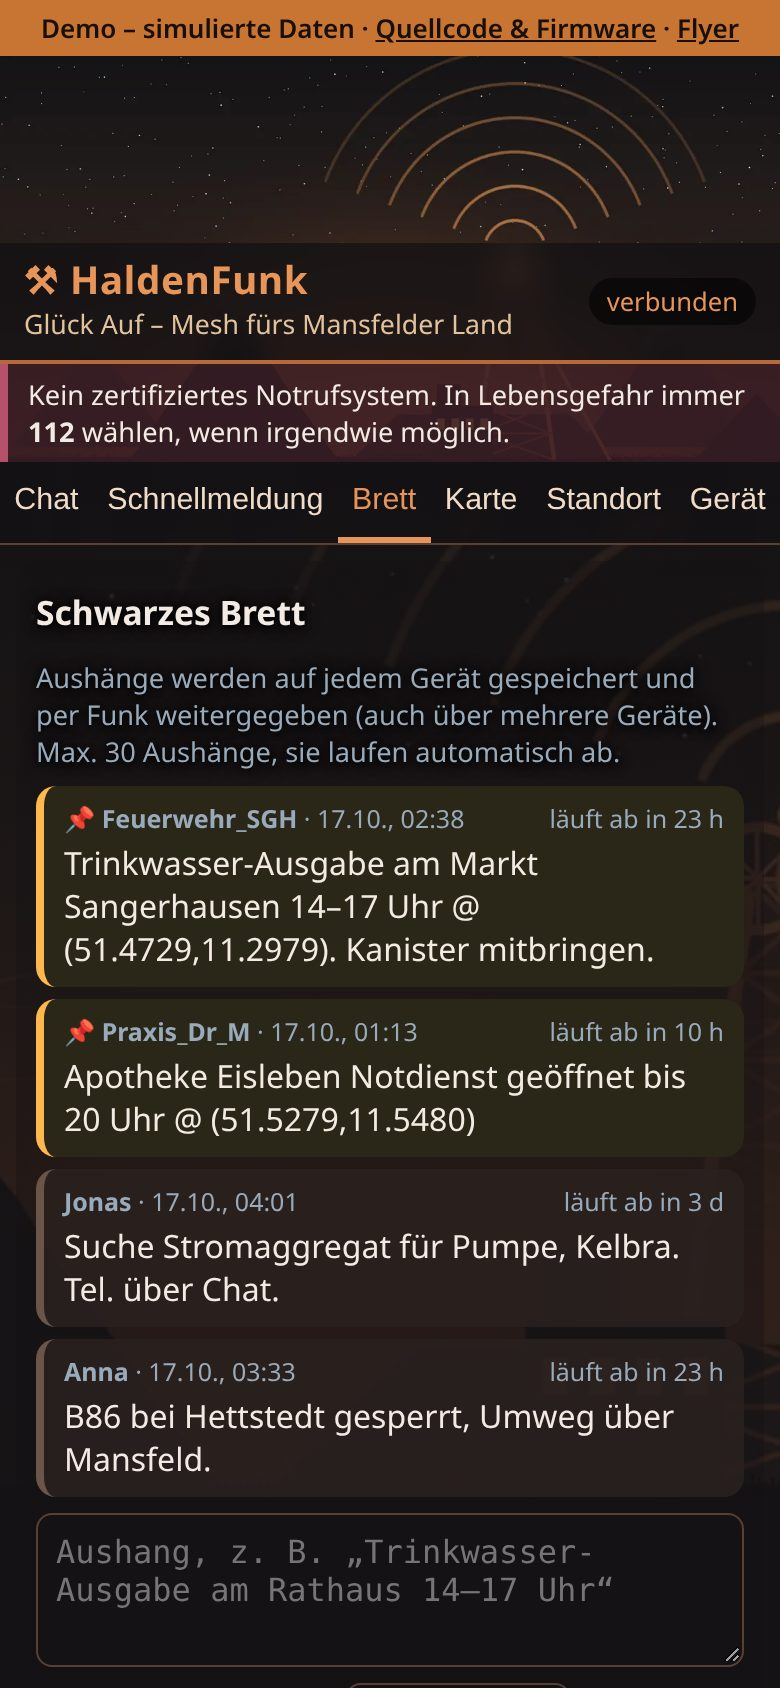
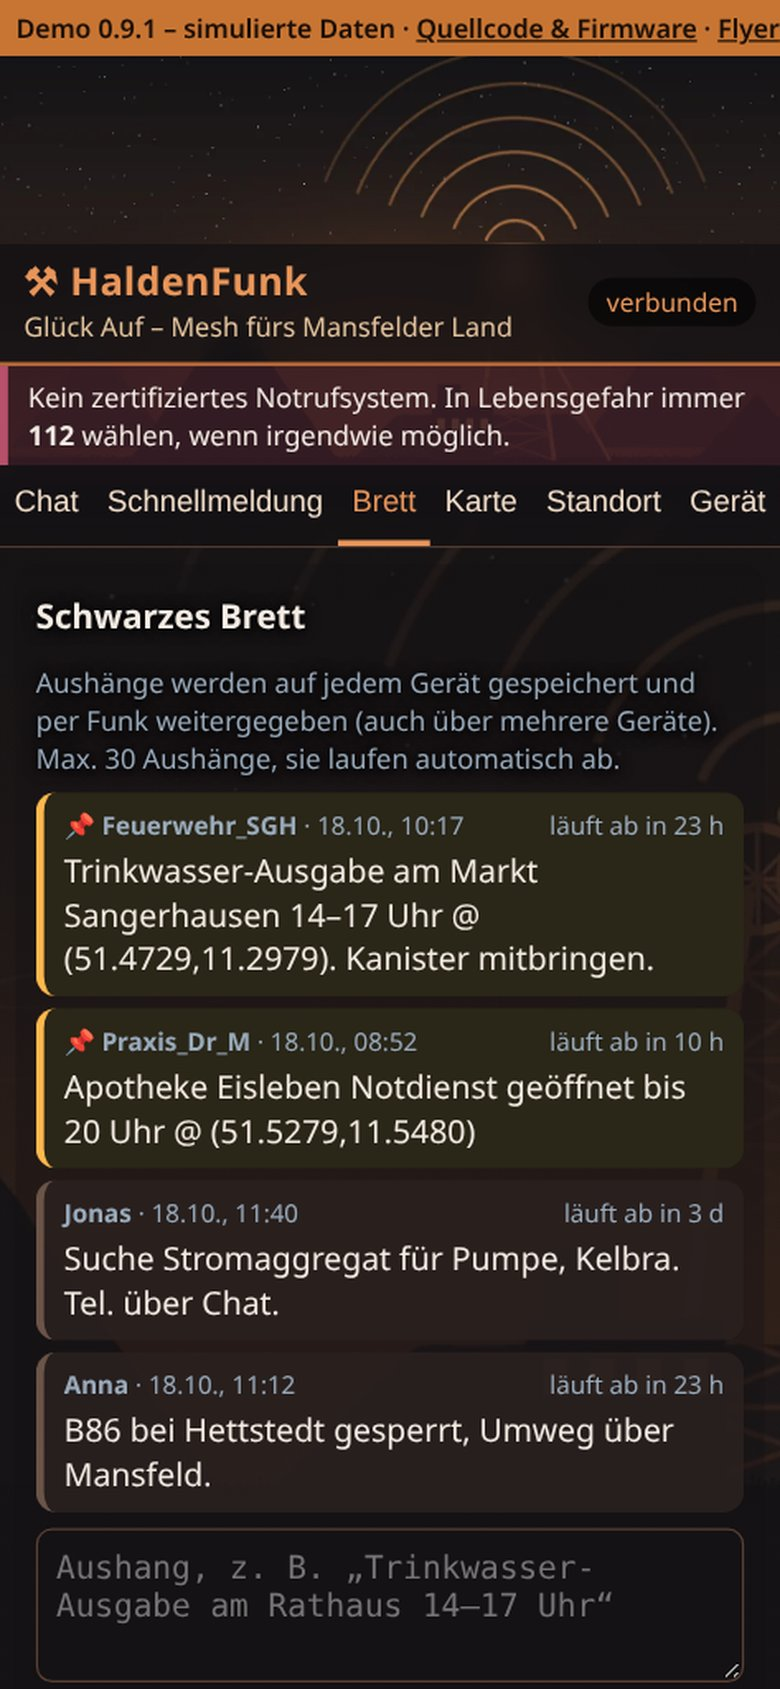
Version 0.9.1: README/CHANGELOG, Projektfamilie 0.9.1, README-Bilder neu, Kern DisAHRsterRadio 0.9.1 (Release nur Heltec V2), Oberflaeche unveraendert

diff --git a/web/static/index.html b/web/static/index.html
@@ -65,7 +65,7 @@ section h2,section p,.row label{text-shadow:0 1px 3px #000,0 0 8px #000}
 <section id="info"><h2>Gerät</h2><table id="it"></table>
 <h2>Funkprofil</h2><p class="muted">⚠ Alle Geräte im Netz müssen <b>dasselbe Funkprofil</b> nutzen, sonst hören sie sich nicht. Alle Profile liegen im Teilband 869,4–869,65 MHz (max. 500 mW ERP, 10 % Sendezeit pro Stunde – die Firmware hält Pakete zurück, wenn das Budget aufgebraucht ist). Änderung startet das Gerät neu.</p>
 <form id="pf" onsubmit="return false" style="display:block"><select id="psel" class="b b2" style="width:100%;max-width:100%;margin-bottom:8px;font-size:15px"></select><button class="b" id="pset" type="button" style="width:100%">Übernehmen &amp; neu starten</button></form><p id="pres" class="muted"></p>
-<p class="muted">Basiert auf <a href="https://github.com/sudomesh/disaster-radio" style="color:var(--sage)">sudomesh/disaster-radio</a> (GPLv3/AGPLv3). Regionalvariante von <a href="https://github.com/Pietwars/DisAHRsterRadio" style="color:var(--sage)">DisAHRsterRadio</a>.</p><p class="muted" id="uiver">Weboberfläche HaldenFunk 0.1.1-alpha</p></section>
+<p class="muted">Basiert auf <a href="https://github.com/sudomesh/disaster-radio" style="color:var(--sage)">sudomesh/disaster-radio</a> (GPLv3/AGPLv3). Regionalvariante von <a href="https://github.com/Pietwars/DisAHRsterRadio" style="color:var(--sage)">DisAHRsterRadio</a>.</p><p class="muted" id="uiver">Weboberfläche HaldenFunk 0.9.1</p></section>
 </main>
 <script>
 const PLACES=[['Allstedt',51.4019,11.3867],['Hettstedt',51.6496,11.5115],['Kelbra (Kyffhäuser)',51.4353,11.0390],['Kyffhäuser-Denkmal',51.4128,11.1078],['Lutherstadt Eisleben',51.5279,11.5480],['Mansfeld',51.5960,11.4540],['Roßla',51.4640,11.0750],['Sangerhausen',51.4729,11.2979],['Sangerhausen – Hohe Linde (Halde)',51.4880,11.3290],['Stolberg (Harzrand)',51.5745,10.9563],['Wallhausen',51.4580,11.2050],['Wippra (Harzrand)',51.5710,11.2770]];
@@ -105,7 +105,7 @@ $('#pl').onclick=e=>{const b=e.target.closest('button');if(!b)return;const p=PLA
 $('#gps').onclick=()=>{if(!navigator.geolocation)return $('#gpsres').textContent='Kein GPS im Browser verfügbar.';$('#gpsres').textContent='Suche Position …';
  navigator.geolocation.getCurrentPosition(p=>{myPos=p.coords.latitude.toFixed(5)+','+p.coords.longitude.toFixed(5)+' (±'+Math.round(p.coords.accuracy)+' m)';localStorage.setItem('dar-pos',myPos);setMe(p.coords.latitude,p.coords.longitude);$('#gpsres').textContent='Position: '+myPos;who()},
  e=>{$('#gpsres').textContent='GPS nicht möglich ('+e.message+'). Bitte Ort aus der Liste wählen.'},{enableHighAccuracy:true,timeout:15000})};
-async function info(){let d;try{d=DEMO?{name:'HaldenFunk',version:'0.1.1-alpha',board:'LILYGO T3-S3 SX1262',node:'a1b2c3d4',ssid:'HaldenFunk-B2C3D4',lora:true,preset:0,presetId:'eu-narrow',presetName:'EU Narrow (Standard)',freq:869.618,bw:62.5,sf:8,cr:'4/8',airtimeMs:12840,airtimeBudgetMs:360000,airtimePct:0.36,dutyLimitPct:10,txDeferred:0,txPower:14,routes:2,clients:3,sd:false,uptime:4711,heap:151552,minHeap:118784,maxBlock:65524,heapWarn:40960}:await (await fetch('/api/info')).json()}catch(e){$('#it').innerHTML='<tr><td>Keine Gerätedaten</td></tr>';return}
+async function info(){let d;try{d=DEMO?{name:'HaldenFunk',version:'0.9.1',board:'LILYGO T3-S3 SX1262',node:'a1b2c3d4',ssid:'HaldenFunk-B2C3D4',lora:true,preset:0,presetId:'eu-narrow',presetName:'EU Narrow (Standard)',freq:869.618,bw:62.5,sf:8,cr:'4/8',airtimeMs:12840,airtimeBudgetMs:360000,airtimePct:0.36,dutyLimitPct:10,txDeferred:0,txPower:14,routes:2,clients:3,sd:false,uptime:4711,heap:151552,minHeap:118784,maxBlock:65524,heapWarn:40960}:await (await fetch('/api/info')).json()}catch(e){$('#it').innerHTML='<tr><td>Keine Gerätedaten</td></tr>';return}
  const L={board:'Board',version:'Firmware',node:'Knotenadresse',ssid:'WLAN',lora:'LoRa aktiv',presetName:'Funkprofil',freq:'Frequenz (MHz)',bw:'Bandbreite (kHz)',sf:'Spreizfaktor',cr:'Coderate',airtimeMs:'Sendezeit letzte Stunde',txDeferred:'Wegen Sendezeit zurückgehalten',txPower:'Sendeleistung (dBm)',routes:'Routen',clients:'Verbundene Clients',sd:'SD-Karte',uptime:'Laufzeit (s)',heap:'Freier Speicher',minHeap:'Minimum seit Start',maxBlock:'Größter freier Block'};
  const W=d.heapWarn||40960,KB=v=>Math.round(v/1024)+' KB';
  $('#it').innerHTML=Object.keys(L).filter(k=>d[k]!==undefined).map(k=>{const h=/^(heap|minHeap|maxBlock)$/.test(k),low=(k=='heap'||k=='minHeap')&&d[k]<W;return '<tr><td>'+L[k]+'</td><td'+(low?' class="heaplow"':'')+'>'+esc(h?KB(d[k])+(low?' ⚠ unter '+KB(W):''):(k=='airtimeMs'?(d[k]/1000).toFixed(1)+' s von '+Math.round((d.airtimeBudgetMs||360000)/1000)+' s ('+(d.airtimePct||0).toFixed(1)+' % / max. '+(d.dutyLimitPct||10)+' %)':String(d[k]===true?'ja':d[k]===false?'nein':d[k])))+'</td></tr>'}).join('')}

diff --git a/tools/release_notes.py b/tools/release_notes.py
@@ -8,7 +8,7 @@ log = (ROOT / 'CHANGELOG.md').read_text(encoding='utf-8')
 m = re.search(r'^## [^\n]*?v?' + re.escape(version) + r'\b[^\n]*\n(.*?)(?=^## |\Z)', log, re.S | re.M)
 body = m.group(1).strip() if m else '(Kein eigener CHANGELOG-Abschnitt für diese Version gefunden.)'
 rows = '\n'.join(f'| {n} | `{prefix}-{version}-{b}.zip` |' for b, n in (x.split('=', 1) for x in boards))
-print(f"""> ⚠ **Kein zertifiziertes Notrufsystem.** In Lebensgefahr immer **112** wählen. Vorabversion, auf echter Hardware **nicht abgenommen**.
+print(f"""> ⚠ **Kein zertifiziertes Notrufsystem.** In Lebensgefahr immer **112** wählen. {'Vorabversion, ' if '-' in version else ''}Diese Firmware ist auf echter Hardware **nicht abgenommen**.
 
 ## Änderungen
 {body}

diff --git a/firmware/config.h b/firmware/config.h
@@ -6,7 +6,7 @@
 #include "secrets.h"
 #endif
 
-#define DAR_VERSION "0.1.1-alpha"
+#define DAR_VERSION "0.9.1"
 #define CLOCK_SPEED 240
 // Unter dieser Grenze freien Heaps warnen Weboberfläche (rot) und serielles [HEAP]-Protokoll
 #ifndef HEAP_WARN_BYTES

diff --git a/README.md b/README.md
@@ -9,7 +9,7 @@
 
 ![HaldenFunk – Halden, Förderturm und Funkwellen](docs/images/haldenfunk-header.jpg)
 
-**Version 0.1.1-alpha** (Vorabversion) · [Release v0.1.1-alpha mit Firmware](https://github.com/Pietwars/HaldenFunk/releases/tag/v0.1.1-alpha) · disaster-radio/LoRaLayer2 + RadioLib 7 · 868 MHz · **Flyer (A5):** [Druck-PDF mit QR-Codes](docs/flyer/HaldenFunk-Flyer.pdf) · [Digital-PDF mit klickbaren Links](docs/flyer/HaldenFunk-Flyer-digital.pdf) · [Änderungen](CHANGELOG.md)
+**Version 0.9.1** · [Release v0.9.1 mit Firmware für Heltec V2](https://github.com/Pietwars/HaldenFunk/releases/tag/v0.9.1) · disaster-radio/LoRaLayer2 + RadioLib 7 · 868 MHz · **Flyer (A5):** [Druck-PDF mit QR-Codes](docs/flyer/HaldenFunk-Flyer.pdf) · [Digital-PDF mit klickbaren Links](docs/flyer/HaldenFunk-Flyer-digital.pdf) · [Änderungen](CHANGELOG.md)
 
 **Offline-Chat über LoRa-Mesh für Sangerhausen, das Mansfelder Land, die Goldene Aue und den Harzrand.** Ein Gerät spannt ein eigenes WLAN auf, man verbindet sich mit dem Handy und schreibt im Browser. Die Nachrichten laufen per LoRa von Gerät zu Gerät weiter – ganz ohne Internet, Strom aus der Steckdose oder Mobilfunk. Ideale Standorte für Knoten: Halden, Fördertürme, Kirchtürme, Dächer am Harzrand.
 
@@ -22,17 +22,17 @@ HaldenFunk ist die **Regionalvariante von [Pietwars/DisAHRsterRadio](https://git
 
 | Repository | Inhalt | Funk | Version | Demo · Download · Flyer |
 |---|---|---|---|---|
-| [Pietwars/DisasterMesh](https://github.com/Pietwars/DisasterMesh) | Original-Repo: MeshCore 1.18 mit der großen Weboberfläche MeshAhrtal, Karten, Werkzeuge, Doku (Ahrtal) | MeshCore | 0.9.0-alpha | [Live-Demo](https://pietwars.github.io/DisasterMesh/demo/) · [Release v0.9.0-alpha](https://github.com/Pietwars/DisasterMesh/releases/tag/v0.9.0-alpha) · Flyer [Druck](https://pietwars.github.io/DisasterMesh/flyer/DisasterMesh-Flyer.pdf) / [digital](https://pietwars.github.io/DisasterMesh/flyer/DisasterMesh-Flyer-digital.pdf) |
-| [Pietwars/DisAHRsterRadio-MeshCore](https://github.com/Pietwars/DisAHRsterRadio-MeshCore) | MeshCore 1.18 mit kompakter MeshAhrtal-Oberfläche per WLAN plus Bluetooth für die MeshCore-App, 105 Geräte (Ahrtal) | MeshCore | 0.9.0-alpha | [Live-Demo](https://pietwars.github.io/DisAHRsterRadio-MeshCore/) · [Release v0.9.0-alpha](https://github.com/Pietwars/DisAHRsterRadio-MeshCore/releases/tag/v0.9.0-alpha) · Flyer [Druck](https://pietwars.github.io/DisAHRsterRadio-MeshCore/flyer/DisAHRsterRadio-MeshCore-Flyer.pdf) / [digital](https://pietwars.github.io/DisAHRsterRadio-MeshCore/flyer/DisAHRsterRadio-MeshCore-Flyer-digital.pdf) |
-| [Pietwars/DisAHRsterRadio](https://github.com/Pietwars/DisAHRsterRadio) | Ohne MeshCore: modernisiertes disaster-radio (LoRaLayer2, RadioLib) mit kompakter MeshAhrtal-Oberfläche (Ahrtal) | LoRaLayer2 | 0.1.1-alpha | [Live-Demo](https://pietwars.github.io/DisAHRsterRadio/) · [Release v0.1.1-alpha](https://github.com/Pietwars/DisAHRsterRadio/releases/tag/v0.1.1-alpha) · Flyer [Druck](https://pietwars.github.io/DisAHRsterRadio/flyer/DisAHRsterRadio-Flyer.pdf) / [digital](https://pietwars.github.io/DisAHRsterRadio/flyer/DisAHRsterRadio-Flyer-digital.pdf) |
-| [Pietwars/HaldenFunk](https://github.com/Pietwars/HaldenFunk) | Regionalvariante von DisAHRsterRadio für Sangerhausen / Mansfelder Land, ohne MeshCore | LoRaLayer2 | 0.1.1-alpha | [Live-Demo](https://pietwars.github.io/HaldenFunk/) · [Release v0.1.1-alpha](https://github.com/Pietwars/HaldenFunk/releases/tag/v0.1.1-alpha) · Flyer [Druck](https://pietwars.github.io/HaldenFunk/flyer/HaldenFunk-Flyer.pdf) / [digital](https://pietwars.github.io/HaldenFunk/flyer/HaldenFunk-Flyer-digital.pdf) |
-| [Pietwars/HaldenFunk-MeshCore](https://github.com/Pietwars/HaldenFunk-MeshCore) | Regionalvariante von DisAHRsterRadio-MeshCore für das Mansfelder Land: MeshCore 1.18, WLAN + Bluetooth, Gerätematrix | MeshCore | 0.1.1-alpha | [Live-Demo](https://pietwars.github.io/HaldenFunk-MeshCore/) · [Release v0.1.0-alpha](https://github.com/Pietwars/HaldenFunk-MeshCore/releases/tag/v0.1.0-alpha) · Flyer [Druck](https://pietwars.github.io/HaldenFunk-MeshCore/flyer/HaldenFunk-MeshCore-Flyer.pdf) / [digital](https://pietwars.github.io/HaldenFunk-MeshCore/flyer/HaldenFunk-MeshCore-Flyer-digital.pdf) |
+| [Pietwars/DisasterMesh](https://github.com/Pietwars/DisasterMesh) | Original-Repo: MeshCore 1.18 mit der großen Weboberfläche MeshAhrtal, Karten, Werkzeuge, Doku (Ahrtal) | MeshCore | 0.9.1 | [Live-Demo](https://pietwars.github.io/DisasterMesh/demo/) · [Release v0.9.1](https://github.com/Pietwars/DisasterMesh/releases/tag/v0.9.1) · Flyer [Druck](https://pietwars.github.io/DisasterMesh/flyer/DisasterMesh-Flyer.pdf) / [digital](https://pietwars.github.io/DisasterMesh/flyer/DisasterMesh-Flyer-digital.pdf) |
+| [Pietwars/DisAHRsterRadio-MeshCore](https://github.com/Pietwars/DisAHRsterRadio-MeshCore) | MeshCore 1.18 mit kompakter MeshAhrtal-Oberfläche per WLAN plus Bluetooth für die MeshCore-App; Firmware für LILYGO T-Deck Plus und Heltec V2 (Ahrtal) | MeshCore | 0.9.1 | [Live-Demo](https://pietwars.github.io/DisAHRsterRadio-MeshCore/) · [Release v0.9.1](https://github.com/Pietwars/DisAHRsterRadio-MeshCore/releases/tag/v0.9.1) · Flyer [Druck](https://pietwars.github.io/DisAHRsterRadio-MeshCore/flyer/DisAHRsterRadio-MeshCore-Flyer.pdf) / [digital](https://pietwars.github.io/DisAHRsterRadio-MeshCore/flyer/DisAHRsterRadio-MeshCore-Flyer-digital.pdf) |
+| [Pietwars/DisAHRsterRadio](https://github.com/Pietwars/DisAHRsterRadio) | Ohne MeshCore: modernisiertes disaster-radio (LoRaLayer2, RadioLib) mit kompakter MeshAhrtal-Oberfläche (Ahrtal) | LoRaLayer2 | 0.9.1 | [Live-Demo](https://pietwars.github.io/DisAHRsterRadio/) · [Release v0.9.1](https://github.com/Pietwars/DisAHRsterRadio/releases/tag/v0.9.1) · Flyer [Druck](https://pietwars.github.io/DisAHRsterRadio/flyer/DisAHRsterRadio-Flyer.pdf) / [digital](https://pietwars.github.io/DisAHRsterRadio/flyer/DisAHRsterRadio-Flyer-digital.pdf) |
+| [Pietwars/HaldenFunk](https://github.com/Pietwars/HaldenFunk) | Regionalvariante von DisAHRsterRadio für Sangerhausen / Mansfelder Land, ohne MeshCore | LoRaLayer2 | 0.9.1 | [Live-Demo](https://pietwars.github.io/HaldenFunk/) · [Release v0.9.1](https://github.com/Pietwars/HaldenFunk/releases/tag/v0.9.1) · Flyer [Druck](https://pietwars.github.io/HaldenFunk/flyer/HaldenFunk-Flyer.pdf) / [digital](https://pietwars.github.io/HaldenFunk/flyer/HaldenFunk-Flyer-digital.pdf) |
+| [Pietwars/HaldenFunk-MeshCore](https://github.com/Pietwars/HaldenFunk-MeshCore) | Regionalvariante von DisAHRsterRadio-MeshCore für das Mansfelder Land: MeshCore 1.18, WLAN + Bluetooth, Gerätematrix | MeshCore | 0.9.1 | [Live-Demo](https://pietwars.github.io/HaldenFunk-MeshCore/) · [Release v0.9.1](https://github.com/Pietwars/HaldenFunk-MeshCore/releases/tag/v0.9.1) · Flyer [Druck](https://pietwars.github.io/HaldenFunk-MeshCore/flyer/HaldenFunk-MeshCore-Flyer.pdf) / [digital](https://pietwars.github.io/HaldenFunk-MeshCore/flyer/HaldenFunk-MeshCore-Flyer-digital.pdf) |
 
 Gleiche Spalte **Funk** = Geräte können miteinander funken (gleiches Funkprofil vorausgesetzt). MeshCore- und LoRaLayer2-Varianten verstehen sich **nicht**.
 
 **Namen:** **DisAHRsterRadio** = Projekt und Marke (WLAN `DisAHRsterRadio-XXXXXX`) · **MeshAhrtal** = die Weboberfläche im Handy-Browser · **DisasterMesh** = das Original-Repository · **HaldenFunk** = Regionalvariante fürs Mansfelder Land (WLAN `HaldenFunk-XXXXXX`).
 
-Haupt-Boards: LILYGO T3-S3 V1.3, LILYGO T3 V1.6.1 (TTGO), Heltec WiFi LoRa 32 V2 – alle 868 MHz; Hardware-Abnahme steht aus (bisher lief nur LILYGO T3 V1.6.1 mit DisAHRsterRadio beim Nutzer). Druck-Flyer haben QR-Codes, digitale Flyer klickbare Links. Alle Demos sind simuliert.
+Firmware 0.9.1 auf echter Hardware getestet: **LILYGO T-Deck Plus** und **Heltec WiFi LoRa 32 V2** (868 MHz) mit DisAHRsterRadio-MeshCore. Die Releases enthalten nur Firmware für diese beiden Boards (soweit das jeweilige Repository sie unterstützt); weitere Boards bleiben im Code, sind aber vorerst nicht im Release. Druck-Flyer haben QR-Codes, digitale Flyer klickbare Links. Alle Demos sind simuliert.
 
 > ⚠ Prototyp, kein zertifiziertes Notrufsystem. **Im Notfall immer 112.**
 <!-- projektfamilie:end -->
@@ -51,12 +51,12 @@ Haupt-Boards: LILYGO T3-S3 V1.3, LILYGO T3 V1.6.1 (TTGO), Heltec WiFi LoRa 32 V2
 
 | PlatformIO-Env | Board | Funkchip | Paket im Release |
 |---|---|---|---|
-| `t3s3-sx1262` | LILYGO T3-S3 | SX1262 | `HaldenFunk-t3s3.zip` |
-| `t3-v161-sx1276` | LILYGO / TTGO T3 V1.6.1 | SX1276 | `HaldenFunk-t3-v161.zip` |
-| `heltec-v2-sx1276` | Heltec WiFi LoRa 32 V2 | SX1276 | `HaldenFunk-heltec-v2.zip` |
+| `t3s3-sx1262` | LILYGO T3-S3 | SX1262 | – (0.9.1 vorerst nicht im Release) |
+| `t3-v161-sx1276` | LILYGO / TTGO T3 V1.6.1 | SX1276 | – (0.9.1 vorerst nicht im Release) |
+| `heltec-v2-sx1276` | Heltec WiFi LoRa 32 V2 | SX1276 | `HaldenFunk-0.9.1-heltec-v2.zip` |
 | `heltec-v2-sx1276-wifi11` | Heltec WiFi LoRa 32 V2, WLAN mit 11 statt 8,5 dBm (falls das WLAN zu schwach ist) | SX1276 | – (nur CI-Artefakt / selbst bauen) |
 
-Jedes ZIP enthält `factory.bin` (ab Adresse 0x0), die Einzelteile, `SHA256SUMS` und eine `ANLEITUNG.md` (Flashen im Browser mit esptool-js). Paketnamen oben wie im Release v0.1.1-alpha; künftige Releases (Workflow „Release“ bei jedem Tag `v*`) heißen `HaldenFunk-<Version>-<Board>.zip`.
+Jedes ZIP enthält `factory.bin` (ab Adresse 0x0), die Einzelteile, `SHA256SUMS` und eine `ANLEITUNG.md` (Flashen im Browser mit esptool-js). Releases entstehen mit dem Workflow „Release“ bei jedem Tag `v*` und heißen `HaldenFunk-<Version>-<Board>.zip`. Ab 0.9.1 enthält das Release vorerst nur das Paket für den **Heltec V2**; T3-S3 und T3 V1.6.1 bleiben im Code und im CI. Den LILYGO T-Deck Plus unterstützt HaldenFunk nicht. Die `factory.bin` an 0x0 überschreibt alle Einstellungen.
 
 ## Funkprofile (868 MHz, Deutschland)
 
@@ -64,7 +64,7 @@ Alle Profile liegen vollständig im SRD-Teilband **869,4–869,65 MHz** (ETSI EN
 
 > ⚠ **Alle Geräte eines Netzes müssen dasselbe Funkprofil nutzen**, sonst hören sie sich nicht. Auswahl im Reiter **Gerät → Funkprofil** (gespeichert im NVS, Neustart) oder seriell `/set preset N`.
 
-> ℹ Die Funkprofile sind auf `main`, aber **noch nicht im Release v0.1.1-alpha**. Die Release-Firmware 0.1.1-alpha funkt fest mit 869,525 MHz, 125 kHz, SF9, CR 4/5 (entspricht Profil 2 „Mittel“). Wer Release- und `main`-Geräte mischt, stellt die neueren Geräte auf „Mittel“.
+> ℹ Die Funkprofile sind ab Release 0.9.1 enthalten. Die ältere Release-Firmware 0.1.1-alpha funkt fest mit 869,525 MHz, 125 kHz, SF9, CR 4/5 (entspricht Profil 2 „Mittel“). Wer alte und neue Geräte mischt, stellt die neueren Geräte auf „Mittel“ oder aktualisiert alle.
 
 | Nr. | Profil | Frequenz | Bandbreite | SF | CR | Sendezeit je 100-Byte-Nachricht | max. Nachrichten/h (10 %) | Reichweite ↔ Tempo |
 |---|---|---|---|---|---|---|---|---|
@@ -88,7 +88,7 @@ Sendezeiten berechnet mit expliziter Kopfzeile, CRC, 8 Symbolen Präambel. Funke
 
 <img src="docs/images/funktion-desktop.jpg" width="700" alt="Desktop-Ansicht">
 
-(Aufnahmen der [Live-Demo](https://pietwars.github.io/HaldenFunk/), Stand 0.1.1-alpha; alle Daten simuliert.)
+(Aufnahmen der [Live-Demo](https://pietwars.github.io/HaldenFunk/), Stand 0.9.1; alle Daten simuliert.)
 
 - **Gestaltung:** Kupfer und Anthrazit, Spitzkegelhalden, Förderturm als Mesh-Knoten, Funkwellen. Das Hintergrundbild ist eine eigene, mit Python/PIL erzeugte Grafik (`tools/make_bg.py`), keine Fotos
 - **Chat** an alle in Funkreichweite, **Schnellmeldungen** (Trinkwasser, Strom, Medikamente, Verletzt, Evakuierung, „Mir geht es gut“, Angebote)
@@ -99,7 +99,7 @@ Sendezeiten berechnet mit expliziter Kopfzeile, CRC, 8 Symbolen Präambel. Funke
 
 ## Erste Schritte
 
-**Am einfachsten:** passendes ZIP aus dem [Release](https://github.com/Pietwars/HaldenFunk/releases/tag/v0.1.1-alpha) laden und nach `ANLEITUNG.md` flashen.
+**Am einfachsten:** passendes ZIP aus dem [Release](https://github.com/Pietwars/HaldenFunk/releases/tag/v0.9.1) laden und nach `ANLEITUNG.md` flashen.
 
 Selbst bauen:
 
@@ -113,7 +113,7 @@ pio device monitor                     # zeigt WLAN-Name und offenen Zugang
 
 Dann mit dem offenen WLAN `HaldenFunk-XXXXXX` verbinden und `http://192.168.4.1` öffnen. Betreiberkonsole nur über USB; Telnet ist deaktiviert.
 
-Standard-Funkprofil (aktueller Stand `main`): **EU Narrow** – 869,618 MHz, 62,5 kHz, SF8, CR 4/8, 14 dBm; weitere Profile siehe [Funkprofile](#funkprofile-868-mhz-deutschland). Release-Firmware 0.1.1-alpha: 869,525 MHz, 125 kHz, SF9, CR 4/5.
+Standard-Funkprofil (ab 0.9.1): **EU Narrow** – 869,618 MHz, 62,5 kHz, SF8, CR 4/8, 14 dBm; weitere Profile siehe [Funkprofile](#funkprofile-868-mhz-deutschland). Ältere Release-Firmware 0.1.1-alpha: 869,525 MHz, 125 kHz, SF9, CR 4/5.
 
 ## Gemeinsamer Kern mit DisAHRsterRadio
 

diff --git a/CHANGELOG.md b/CHANGELOG.md
@@ -1,6 +1,14 @@
 # Changelog – HaldenFunk
 
-## Unveröffentlicht – offener Zugang
+## 0.9.1 · 18.10.2026 · Release
+
+Versionsangleich der Projektfamilie auf 0.9.1 (von 0.1.1-alpha). Weboberfläche und alle Funktionen von HaldenFunk **unverändert**; enthält die bisher unveröffentlichten Punkte unten (offener Zugang, Funkprofile im Kern).
+
+- Release vorerst nur mit dem Paket für **Heltec WiFi LoRa 32 V2**; T3-S3 und T3 V1.6.1 bleiben im Code und im CI (HaldenFunk unterstützt den T-Deck Plus nicht).
+- Kern auf DisAHRsterRadio 0.9.1 (`tools/core_sync.py`), README, Projektfamilie und README-Bilder auf 0.9.1.
+- Auf echter Hardware ist HaldenFunk 0.9.1 nicht abgenommen.
+
+### Offener Zugang (seit 0.1.1-alpha)
 
 - **Offenes WLAN:** `HaldenFunk-XXXXXX` ohne Zugangsdaten (höchstens 4 Handys), ein früher gespeicherter AP-Schlüssel wird beim Start aus dem NVS gelöscht; seriell/OLED zeigen „offen“. WLAN bleibt auch bei früher gespeicherter BLE-only-Einstellung aktiv.
 - Telnet-Konsole entfernt, Betreiberkonfiguration nur über USB.
